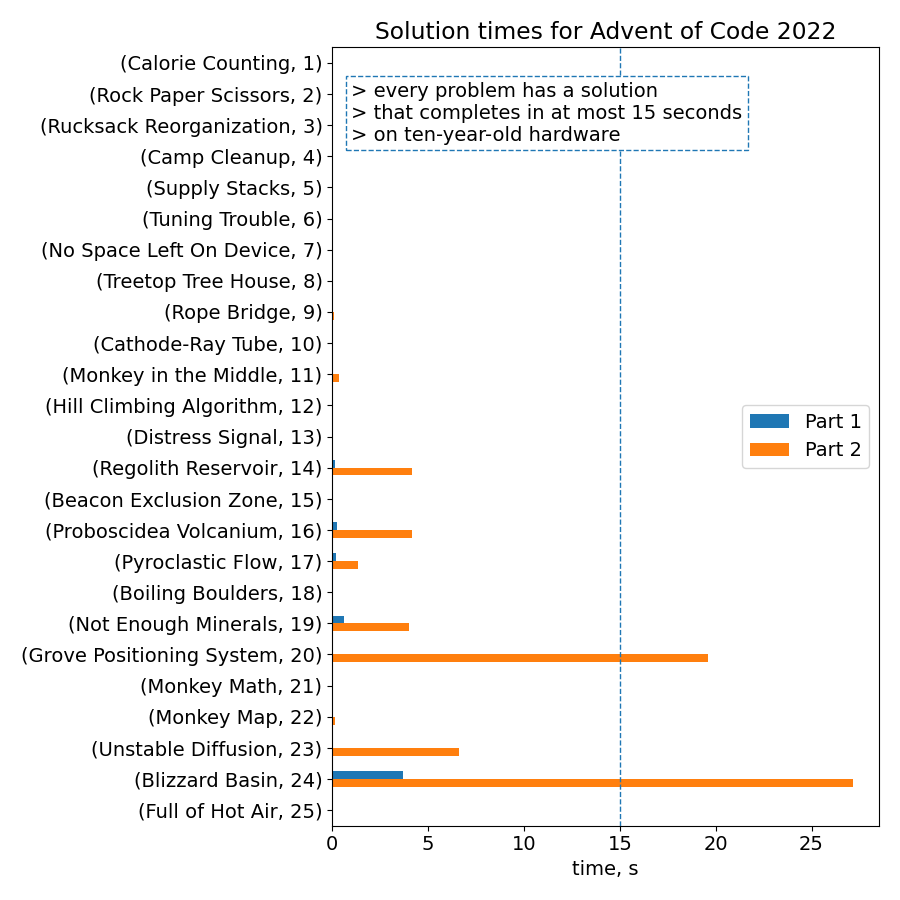
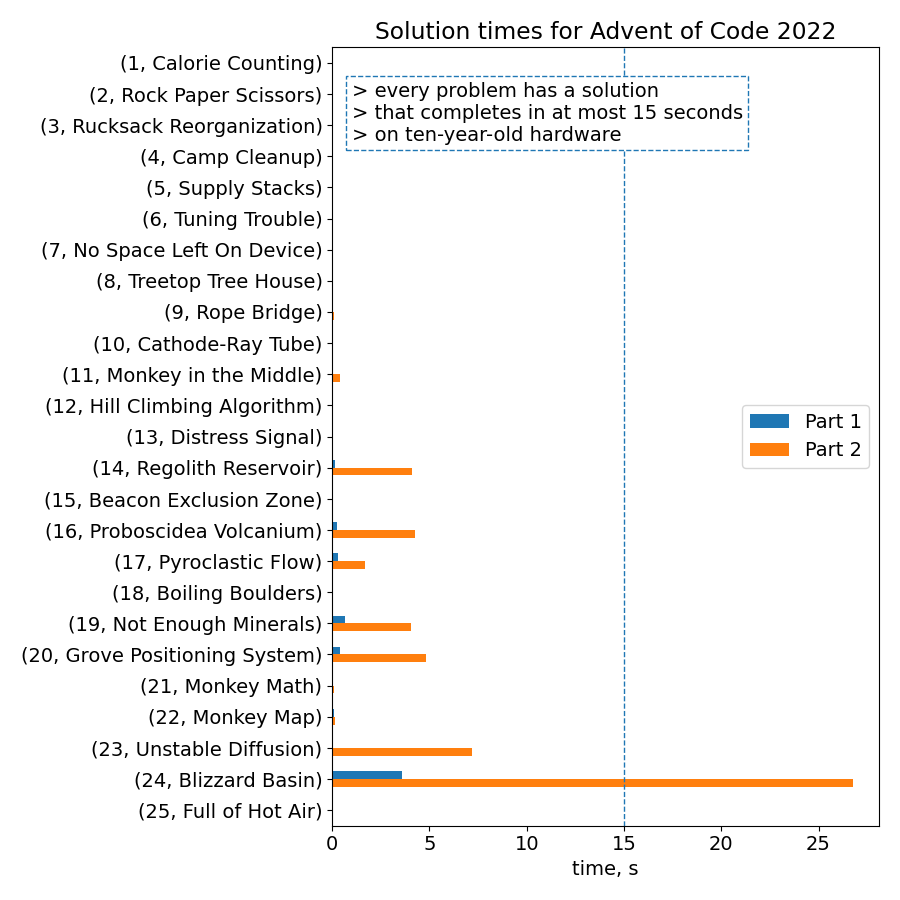
Redo day 20 using a linked list (4-5x better time)

diff --git a/src/day20.py b/src/day20.py
@@ -4,47 +4,75 @@
 day_title = "Grove Positioning System"
 
 
-def mix(ls):
-    moved = 0
-    move_position = 0
-    factor = len(ls) - 1
-    while moved < len(ls):
-        elem, index = ls[move_position]
-        while index != moved:
-            move_position = (move_position + 1) % len(ls)
-            elem, index = ls[move_position]
-        if elem < 0:
-            elem = elem % factor
-        new_position = (move_position + elem) % factor
-        if new_position == 0:
-            new_position = factor
-        move = ls.pop(move_position)
-        ls.insert(new_position, move)
-        if new_position <= move_position:
-            move_position = (move_position + 1) % len(ls)
-        moved += 1
-    return ls
+class Node:
+    def __init__(self, value, index):
+        self.value = value
+        self.index = index
+        self.right = None
+        self.left = None
+        self.original_right = None
 
 
-def get_answer(ls):
-    index = ls.index(0)
-    total = 0
-    for i in [1000, 2000, 3000]:
-        total += ls[(index + i) % len(ls)]
-    return total
+class MixingList:
+    def __init__(self, ls):
+        nodes = [Node(value, index) for index, value in enumerate(ls)]
+        self.length = len(ls)
+        for i, node in enumerate(nodes):
+            node.right = nodes[(i + 1) % self.length]
+            node.left = nodes[(i - 1) % self.length]
+            node.original_right = node.right
+            if node.value == 0:
+                self.zero = node
+        self.head = nodes[0]
+
+    def mix(self):
+        node = self.head
+        while True:
+            move = node.value % (self.length - 1)
+            if move >= self.length // 2:
+                move -= self.length - 1
+            # remove node and connect its neighbours
+            node.left.right = node.right
+            node.right.left = node.left
+            # insert node at new place
+            insert_left_of = node.left
+            if move > 0:
+                for _ in range(move):
+                    insert_left_of = insert_left_of.right
+            elif move < 0:
+                for _ in range(-move):
+                    insert_left_of = insert_left_of.left
+            insert_right_of = insert_left_of.right
+            insert_left_of.right = node
+            insert_right_of.left = node
+            node.left = insert_left_of
+            node.right = insert_right_of
+            # go on with the original right neighbour
+            node = node.original_right
+            if node == self.head:
+                break
+
+    def answer(self):
+        total = 0
+        node = self.zero
+        for i in range(3):
+            for _ in range(1000 % self.length):
+                node = node.right
+            total += node.value
+        return total
 
 
 def part1(text_input):
-    ls = [(int(val), index) for index, val in enumerate(text_input.split())]
-    ls = mix(ls)
-    ls = [m[0] for m in ls]
-    return get_answer(ls)
+    ls = [int(i) for i in text_input.split()]
+    mixer = MixingList(ls)
+    mixer.mix()
+    return mixer.answer()
 
 
 def part2(text_input):
     key = 811589153
-    ls = [(int(val) * key, index) for index, val in enumerate(text_input.split())]
+    ls = [int(i) * key for i in text_input.split()]
+    mixer = MixingList(ls)
     for _ in range(10):
-        ls = mix(ls)
-    ls = [m[0] for m in ls]
-    return get_answer(ls)
+        mixer.mix()
+    return mixer.answer()

diff --git a/Readme.md b/Readme.md
@@ -94,6 +94,6 @@ python src/dayX.py
 
 Solve times from a single run on my computer.
 
-Days 20 and 24 could use some improvements.
+Day 24 could use some improvements.
 
 ![Solve times horizontal bar chart](outputs/time_stats.png)
